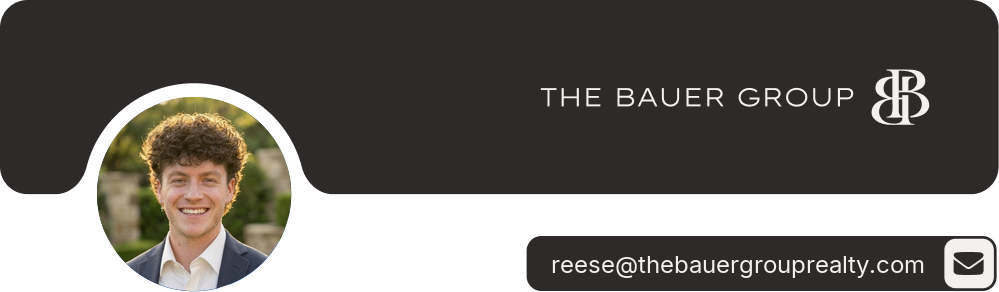
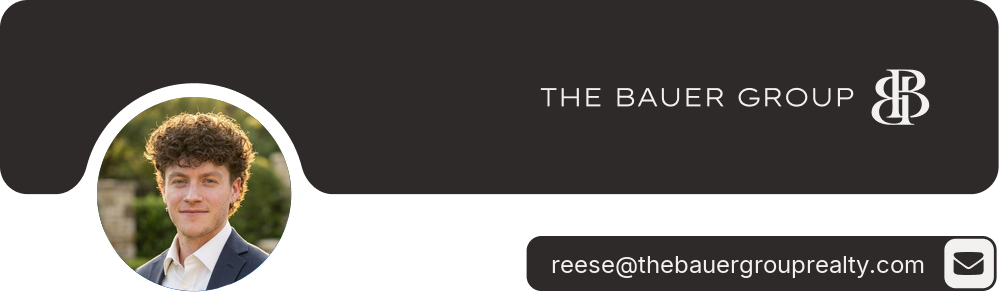
Update Reese photo, add Lyndsey Montgomery signature

Changed region(s): [[0.0931, 0.339, 0.3103, 1.0]]

diff --git a/signatures/lyndsey-montgomery.html b/signatures/lyndsey-montgomery.html
@@ -1,0 +1,110 @@
+<!doctype html>
+<html lang="en"><head><meta charset="utf-8"><meta name="viewport" content="width=device-width, initial-scale=1"><title>Lyndsey Montgomery - Bauer Group email signature</title><meta name="robots" content="noindex,nofollow"><style>body{margin:16px;background:#fff;}</style></head><body>
+<table role="presentation" cellpadding="0" cellspacing="0" border="0" width="360"
+  style="width:360px;max-width:360px;border-collapse:collapse;
+         font-family:Arial,Helvetica,sans-serif;color:#111;">
+
+  <!-- CLICKABLE COVER IMAGE -->
+  <tr>
+    <td style="padding:0;margin:0;line-height:0;font-size:0;">
+      <a href="mailto:lyndsey@thebauergrouprealty.com" style="text-decoration:none;">
+        <img
+          src="https://hwrdkan.github.io/bauer-signature-assets/img/lyndsey-cover.png"
+          width="360"
+          alt=""
+          style="display:block;width:360px;max-width:360px;height:auto;border:0;">
+      </a>
+    </td>
+  </tr>
+
+  <!-- 10px SPACE -->
+  <tr>
+    <td height="10" style="font-size:0;line-height:0;">&nbsp;</td>
+  </tr>
+
+  <!-- WEBSITE (RIGHT) -->
+  <tr>
+    <td align="right">
+      <a href="https://thebauergrouprealty.com" target="_blank">
+        <img
+          src="https://static.wixstatic.com/media/8a345d_b10ff167e0c942e7be0706ed0cd64a75~mv2.png"
+          height="20"
+          alt="Website"
+          style="display:block;border:0;">
+      </a>
+    </td>
+  </tr>
+
+  <!-- TEXT (LEFT) + ICONS (RIGHT) - BOTTOM ALIGNED -->
+  <tr>
+    <td>
+      <table role="presentation" cellpadding="0" cellspacing="0" border="0" width="100%">
+        <tr>
+
+          <!-- LEFT: TEXT -->
+          <td align="left" valign="bottom">
+            <div style="font-size:10px;line-height:1.2;color:#666;">
+              Realtor ®
+            </div>
+
+            <div style="font-size:16px;font-weight:600;line-height:1.1;">
+              Lyndsey Montgomery
+            </div>
+          </td>
+
+          <!-- RIGHT: ICONS -->
+          <td align="right" valign="bottom">
+            <table role="presentation" cellpadding="0" cellspacing="0" border="0" align="right">
+              <tr valign="bottom">
+
+<!-- LINKEDIN -->
+                <td style="padding-right:5px;">
+                  <a href="https://www.linkedin.com/in/lyndsey-montgomery-17a2b2195/" target="_blank">
+                    <img src="https://static.wixstatic.com/media/8a345d_f38f79d68701450183dee92aed5e356c~mv2.png"
+                         height="20" alt="LinkedIn" style="display:block;border:0;">
+                  </a>
+                </td>
+
+                <!-- INSTAGRAM -->
+                <td style="padding-right:5px;">
+                  <a href="https://www.instagram.com/lynnzmx9/" target="_blank">
+                    <img src="https://static.wixstatic.com/media/8a345d_c6e49e8ffab24ca18a89c0a4564f01ee~mv2.png"
+                         height="20" alt="Instagram" style="display:block;border:0;">
+                  </a>
+                </td>
+
+<!-- PHONE (FLUSH RIGHT) -->
+                <td>
+                  <a href="tel:+12147896090">
+                    <img src="https://hwrdkan.github.io/bauer-signature-assets/img/lyndsey-phone.png"
+                         height="20" alt="Phone" style="display:block;border:0;">
+                  </a>
+                </td>
+
+              </tr>
+            </table>
+          </td>
+
+        </tr>
+      </table>
+    </td>
+  </tr>
+
+  <!-- 10px SPACE -->
+  <tr>
+    <td height="10" style="font-size:0;line-height:0;">&nbsp;</td>
+  </tr>
+
+  <!-- BOTTOM BANNER -->
+  <tr>
+    <td style="padding:0;margin:0;line-height:0;font-size:0;">
+      <img
+        src="https://static.wixstatic.com/media/8a345d_df3ec034045b48078543b38f66f3136e~mv2.png"
+        width="360"
+        alt=""
+        style="display:block;width:360px;max-width:360px;height:auto;border:0;">
+    </td>
+  </tr>
+</table>
+
+</body></html>
